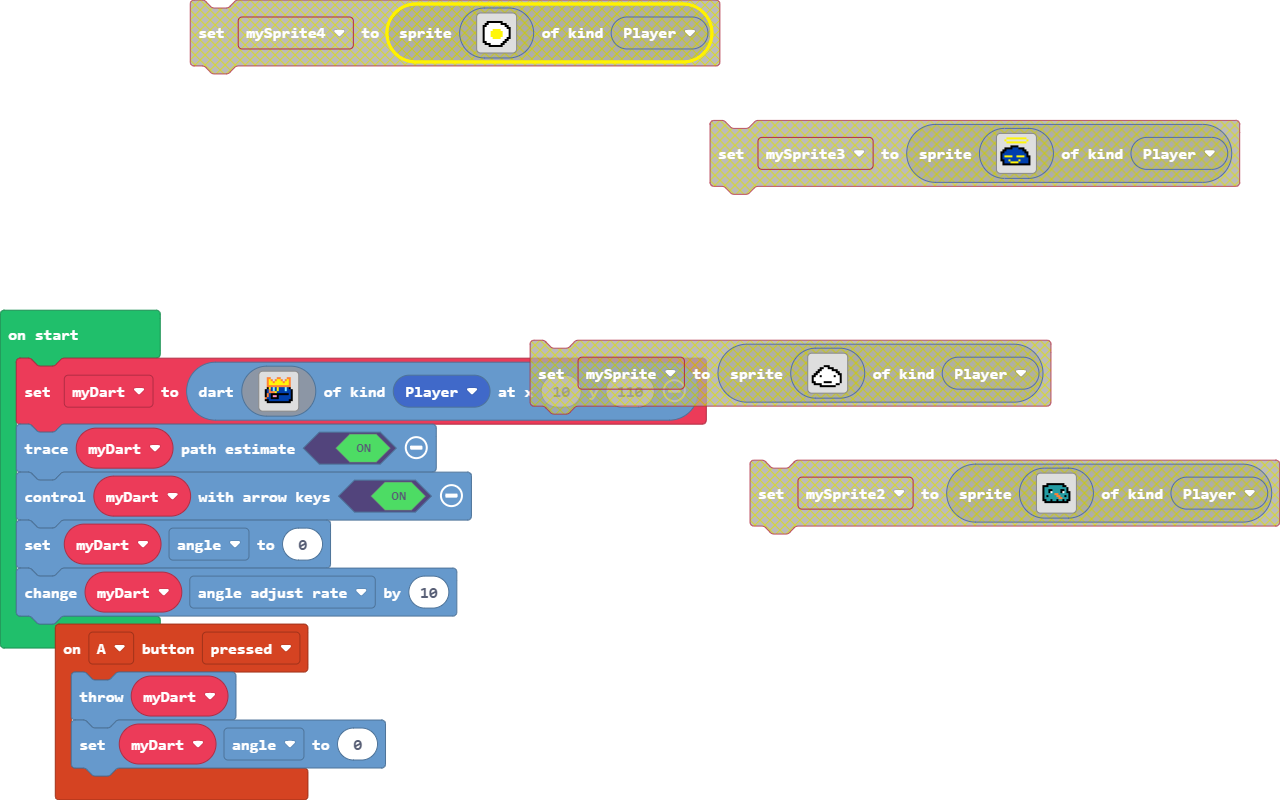
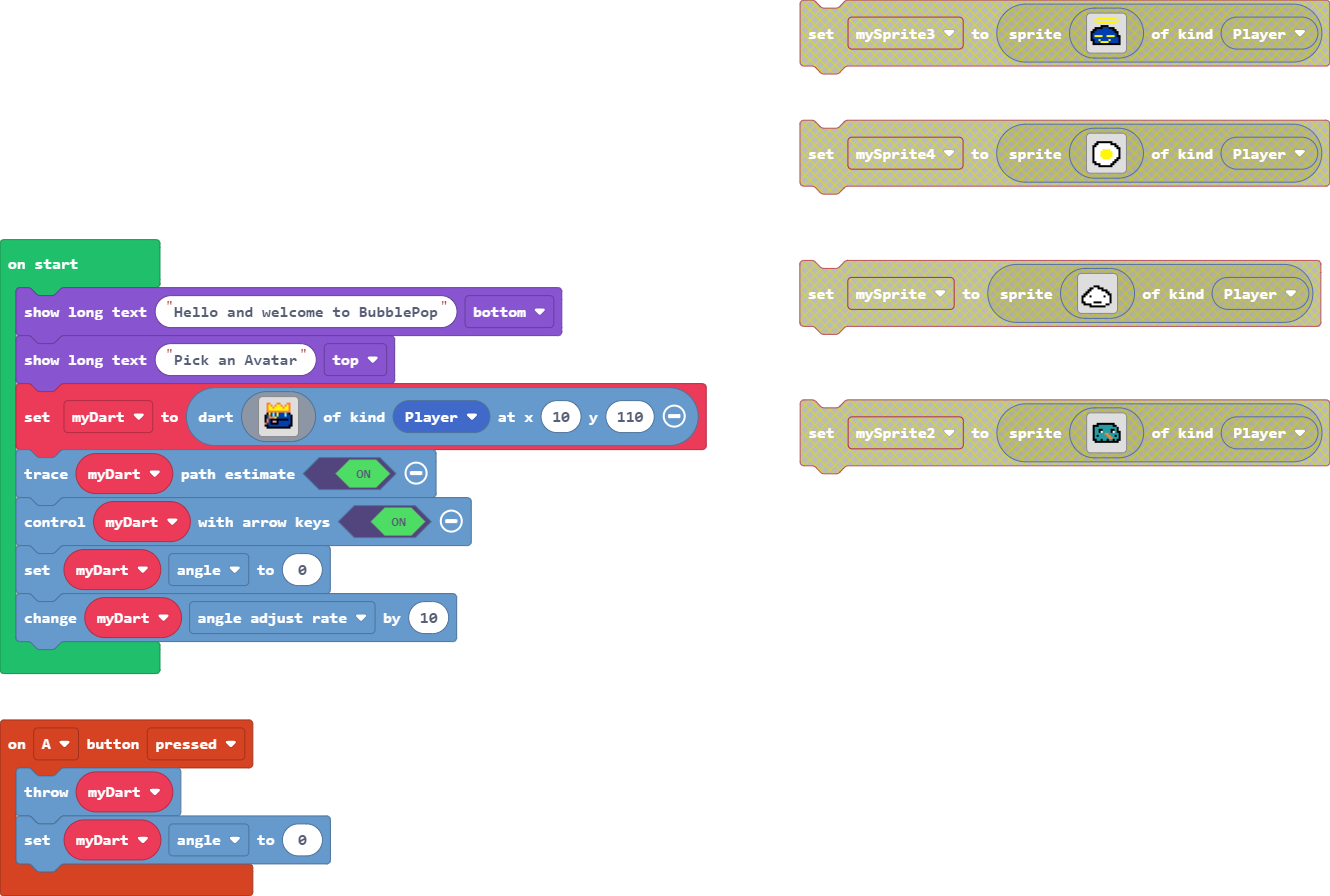
Update main.blocks, main.ts

diff --git a/main.ts b/main.ts
@@ -3,6 +3,8 @@ controller.A.onEvent(ControllerButtonEvent.Pressed, function () {
     myDart.angle = 0
 })
 let myDart: Dart = null
+game.showLongText("Hello and welcome to BubblePop", DialogLayout.Bottom)
+game.showLongText("Pick an Avatar", DialogLayout.Top)
 myDart = darts.create(img`
     . . . . . . . . . . . . . . . . 
     . . 4 4 . . . 4 4 . . . 4 4 . . 
